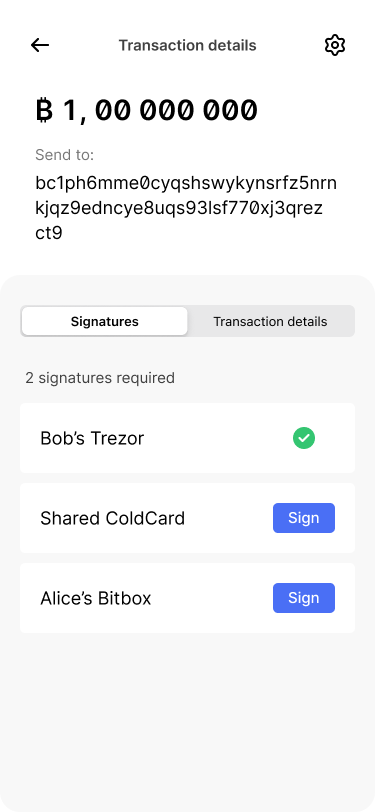
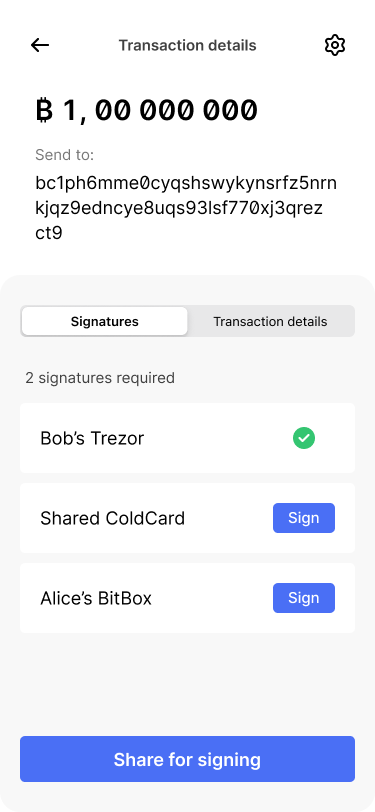
Revision
- Updated copy
- Fixed a logical flaw that around passing around PSBTs.
- Added new & updated existing images.

diff --git a/guide/inheritance-wallet/making-changes.md b/guide/inheritance-wallet/making-changes.md
@@ -91,13 +91,28 @@ images_fund-transfer-bob:
     - file: fund-transfer/move-funds-sign-bob-done
       alt: Screen showing the transaction details. It shows that one of three keys has signed the transaction.
       caption: The transaction details screen shows that the first signature has been provided.
+    - file: fund-transfer/move-funds-share-transaction
+      alt: Screen showing a QR code and sharing options.
+      caption: Bob shares the partially signed transaction with Alice.
 images_alice-sign-transfer:
     - file: fund-transfer/move-funds-sign-alice-home
       alt: App home screen showing that a transaction is ready to be signed for the family savings wallet.
       caption: Alice's app shows that a transaction is ready to be signed.
+    - file: fund-transfer/move-funds-sign-alice-wallet-overview
+      alt: Wallet detail screen for the family savings wallet.
+      caption: Alic taps the pay button on the wallet overview screen.
+    - file: fund-transfer/move-funds-sign-alice-payment-sheet
+      alt: Dialog showing three different payment options.
+      caption: She selects sign transaction from the options.
+    - file: fund-transfer/move-funds-sign-alice-import-options
+      alt: Screen showing different options for how to import a transaction.
+      caption: Alice chooses the scan QR code option.
+    - file: fund-transfer/move-funds-sign-alice-import-scan
+      alt: QR code scanning screen.
+      caption: Alice scans the QR code from Bob's phone.
     - file: fund-transfer/move-funds-sign-alice-initial
       alt: Screen showing the transaction details. It shows that one of three keys has already signed the transaction.
-      caption: Alice goes on to use her Bitbox to provide the second signature.
+      caption: Alice goes on to use her BitBox to provide the second signature.
     - file: fund-transfer/move-funds-sign-alice-flow
       alt: Placeholder screen representing the transaction signing flow on Alice's hardware wallet. 
       caption: The app takes her through the signing flow.
@@ -185,30 +200,32 @@ https://www.figma.com/file/h5GP5v5dYfpXXfEUXf6nvC/Inheritance-wallet?type=design
 
 ---
 
-In this page we will take a look at two specific use cases that are likely to occur when storing bitcoin over a long enough period of time: 
+The Jones family have been using their savings wallet for a couple of years now and everything has worked smoothly so far. On this page we will take a look at what happens if they need to make changes to their setup. If users are storing bitcoin over a long enough period of time, there are a couple of scenarios that they might run into: 
 
-1. Users need to replace a key that has been lost.
-2. Users want to change the basic wallet configuration.
+1. They need to replace a key that has been lost.
+2. They want to change the basic wallet configuration.
 
 ### How it works
 
-Because of how bitcoin works, any of these change requires creating a new wallet and moving the funds to this new wallet. In both of the cases mentioned above, making the desired changes in the wallet is relatively easy. But because we design for a self-custodial application, there are some manual steps to be taken after the new wallet has been created. Here is how it works:
+When users need to make changes to their multisig wallet, such as replacing a key or modifying the wallet configuration, the process involves creating a new wallet and transferring funds. Here's how the process works from Bob's and Alice's perspective:
 
-1. Make the desired changes to the wallet configuration. This creates a new wallet.
-2. Share the new wallet with Alice, so that she can set it up in her application.
-3. Activate the new wallet on Bob and Alice's signing devices.
-4. Save the new wallet backup kit and store it in the same way as described in the backup page.
-5. Transfer the funds to the new wallet.
-6. Archive the old wallet, in case some funds still come in later.
+1. Bob makes the desired changes, which creates a new wallet.
+1. He shares the new wallet with Alice for setup in her application.
+1. Bob and Alice activate the new wallet on all three primary signing devices. 
+1. They save and store the new wallet recovery kit as described in the [backup page]({{ '/guide/inheritance-wallet/backup/#backup-strategy' | relative_url }}).
+1. Transfer all funds to the new wallet.
+1. Archive the old wallet to manage any future incoming funds.
 
 
-### Replacing a signing key
+## Replacing David's signing key
 
-Let's assume that David, one of the heirs, has lost his signing device. He did not lose the seed phrase backup, so he could theoretically just import his private key into a new device. But since they are dealing with their family savings, the Joneses don't want to take any chances. They decide to replace David's key, which is part of the inheritance key set. The family would follow the same approach if David had lost the seed phrase backup or had reason to believe that it had been compromised.
+Let's assume that David, one of the heirs, has lost his signing device. Furtunately, it is part of the inheritance key set, which is restricted by a timelock, as we have covered [here]({{ '/guide/inheritance-wallet/wallet-creation/#creating-the-inheritance-key-set' | relative_url }}). Although David still has his seed phrase backup, the Joneses decide to replace David's key as a precautionary measure. They would follow the same approach if David had lost the seed phrase backup or suspected it had been compromised.
 
 #### Adding the new key
 
-After David received the new signing device, he exports the extendend public key, just like he did during the [wallet creation]({{ '/guide/inheritance-wallet/wallet-creation/#adding-the-inheritance-keys' | relative_url }}) process. He then shares it with his parents via a shared chat on Signal. As soon as they receive David's XPUB, Bob opens our application and navigates to the wallet settings. The prototype below lets you click through the key replacement flow:
+After David received the new signing device, he exports the extendend public key (XPUB), just like he did during the [wallet creation]({{ '/guide/inheritance-wallet/wallet-creation/#adding-the-inheritance-keys' | relative_url }}) process. He then shares it with his parents via a shared chat on Signal. 
+
+The prototype below lets you click through the key replacement flow:
 
 {% include prototype.html
    link = "https://www.figma.com/proto/h5GP5v5dYfpXXfEUXf6nvC/Inheritance-wallet?page-id=6295%3A8715&type=design&node-id=6466-13302&viewport=337%2C-87%2C0.17&t=ctQmwe5HnelSERog-1&scaling=min-zoom&starting-point-node-id=6466%3A13302&show-proto-sidebar=1&mode=design"
@@ -221,7 +238,7 @@ After David received the new signing device, he exports the extendend public key
    height = 500
 %}
 
-On the wallet settings page, Bob goes the signing keys page. From there the app guides him through the key replacement flow. It starts with a short explanation dialog that outlines how the process works.   
+Once he receives David's XPUB, Bob opens our application and navigates to the wallet settings. On the wallet settings page, Bob goes the signing keys page. From there the app guides him through the key replacement flow. It starts with a short explanation dialog that outlines how the process works.   
 
 {% include image-gallery.html pages = page.images_key-replacement-configuration %} 
 
@@ -232,11 +249,12 @@ The next step is to add David's new extended public key. This works in the same 
 {% include image-gallery.html pages = page.images_key-replacement-add-key %}
 
 ### Cosigner setup, device activation and wallet backup 
+
 The new inheritance wallet is now created. Just like during the initial wallet creation, Alice and Bob now need to:
 
 1. Share the wallet configuration with Alice, so that she can set up the wallet on her app.
-2. Activate the new wallet on all of their signing devices.
-3. Save the backup kit for the new wallet.
+1. Activate the new wallet on all of their signing devices.
+1. Save the backup kit for the new wallet.
 
 We have covered these topics in the previous pages of this reference design.
 
@@ -246,35 +264,53 @@ Now that the new wallet is ready, Alice and Bob need to transfer their savings t
 
 #### Bob creates and signs the transaction
 
-Bob taps on the reminder and starts creating the transaction. Because the app knows about both wallets, it will prefill most of the information in the send flow, like the recipient address and the transaction amount. 
+Bob taps on the reminder and initiates the transaction creation process. Because the app is aware of both wallets, it can prefill most of the information in the send flow, such as the recipient address and the transaction amount. After creating the transaction, Bob signs it with his Trezor right away.
 
 {% include image-gallery.html pages = page.images_fund-transfer-bob %} 
 
-After creating the transaction, Bob directly continues to sign it with his Trezor. Once this is done, Alice will provide her signature.
+The transaction is now ready for Alice to sign as well. However, there is no central server coordinating or automatically syncing transaction information between Bob and Alice's devices, because our app aims to work in the most [self-custodial way]({{ '/guide/inheritance-wallet/overview/#role-of-the-wallet-provider' | relative_url }}) possible. 
+
+This means that Bob has to manually share the partially signed transaction (PSBT) with Alice. Our app offers a variety of different sharing options. Bob chooses to generate a QR code, so that Alice can scan it conveniently.
 
 #### Alice co-signs the transaction
 
-On the app home screen, Alice now sees a reminder that a transaction is ready to be signed. On the detail screen, she also sees that Bob has already provided a signature. Alice hits "sign" and goes through the transaction signing flow on her Bitbox. 
+Alice opens the wallet app on her phone, selects the family savings wallet and hits send. In the send sheet she taps "sign transaction" and uses the QR scanner to import the partially signed transaction from Bob's phone.
 
 {% include image-gallery.html pages = page.images_alice-sign-transfer %} 
 
-After she has signed the transaction, she sees that the transaction is being confirmed by the network. Once the transaction has been confirmed, the app home screen shows a reminder that the original wallet should be archived. 
+Once imported, Alice's app displays the transaction details, showing that it has been signed by Bob and requires her signature to complete. Alice reviews the transaction details and initiates the signing process.
+
+After she completes the signing flow  with her BitBox, the app automatically broadcasts the fully signed transaction to the Bitcoin network. If she would like to have more control and broadcast transactions manually, Alice could change this behavior in the app settings.
+
+Back on the home screen, Alice sees that the transaction is being confirmed by the network. After it has been confirmed, the app shows a reminder that the original wallet should be archived. 
 
 ### Archiving the old wallet
 
-Archiving unused wallets removes complexity and helps users to focus on the wallets they actively use. Archiving a wallet does not delete it from the app. It is only removed from the home screen and from the wallets tab. 
+Archiving unused wallets removes complexity and helps users focus on the wallets they actively use. Archiving a wallet does not delete it from the app. It is only removed from the home screen and from the wallets tab. 
 
-The app will still watch the blockchain for incoming transactions. If there are any, they are shown on the home screen and in the wallets tab. Users can then transfer the funds to a wallet that they actively use. This is why it is important to keep the backup kit and at least one of the primary keys of every wallet.   
+The app will still monitor the Bitcoin blockchain for incoming transactions. If there are any, they are shown on the home screen and in the wallets tab. Users can then transfer the funds to a wallet that they actively use. This is why it is important to keep the backup kit and at least one of the primary keys of every wallet.   
 
 {% include image-gallery.html pages = page.images_archive-wallet %}
 
-### Editing the wallet timelocks
+### Alternative approach
+As you can see, making changes to a multi-key wallet can be a tedious process. An alternative to replacing the David's key would be for David to simply import the backup of his existing private key into a new signing device. This approach has some advantages:
 
-If Bob would just want to edit the wallet configuration itself, without changing the keys, the process would be the same. In the below example below, Bob changes the activation timelock for the recovery path and the inheritance key set from 6 months to 12 months. 
+1. **Simplicity**: It doesn't require creating a new wallet or moving funds.
+1. **Speed**: David could regain access to the wallet more quickly.
+No coordination needed: Other family members wouldn't need to be involved in the process.
+
+However, there are also significant downsides:
+
+1. **Security risk**: If the original device was stolen rather than just lost, the thief might eventually gain access to the private key, putting the funds at risk.
+1. **Potential compromise**: If there's any chance the seed phrase backup was exposed or compromised, using it again could jeopardize the wallet's security.
+
+In a multi-key setup, a single compromised key doesn't immediately put the funds at risk because multiple keys are required to authorize a transaction. In addition to that, the inheritance key set is protected by the timelocks that Alice and Bob have put in place. However, it does reduce the overall security of the wallet.
+
+## Changing the wallet configuration
+
+If the Joneses would want to change only the wallet configuration the process would be the same. In the example below, Bob changes the activation timelock for the recovery path and the inheritance key set from 6 months to 12 months. After the new wallet is created, the process will be the same as described above.
 
 {% include image-gallery.html pages = page.images_config-changes %} 
-
-After creating the new wallet, the process would be exactly the same as for the replacement of the keys described above.
 
 ---
 
